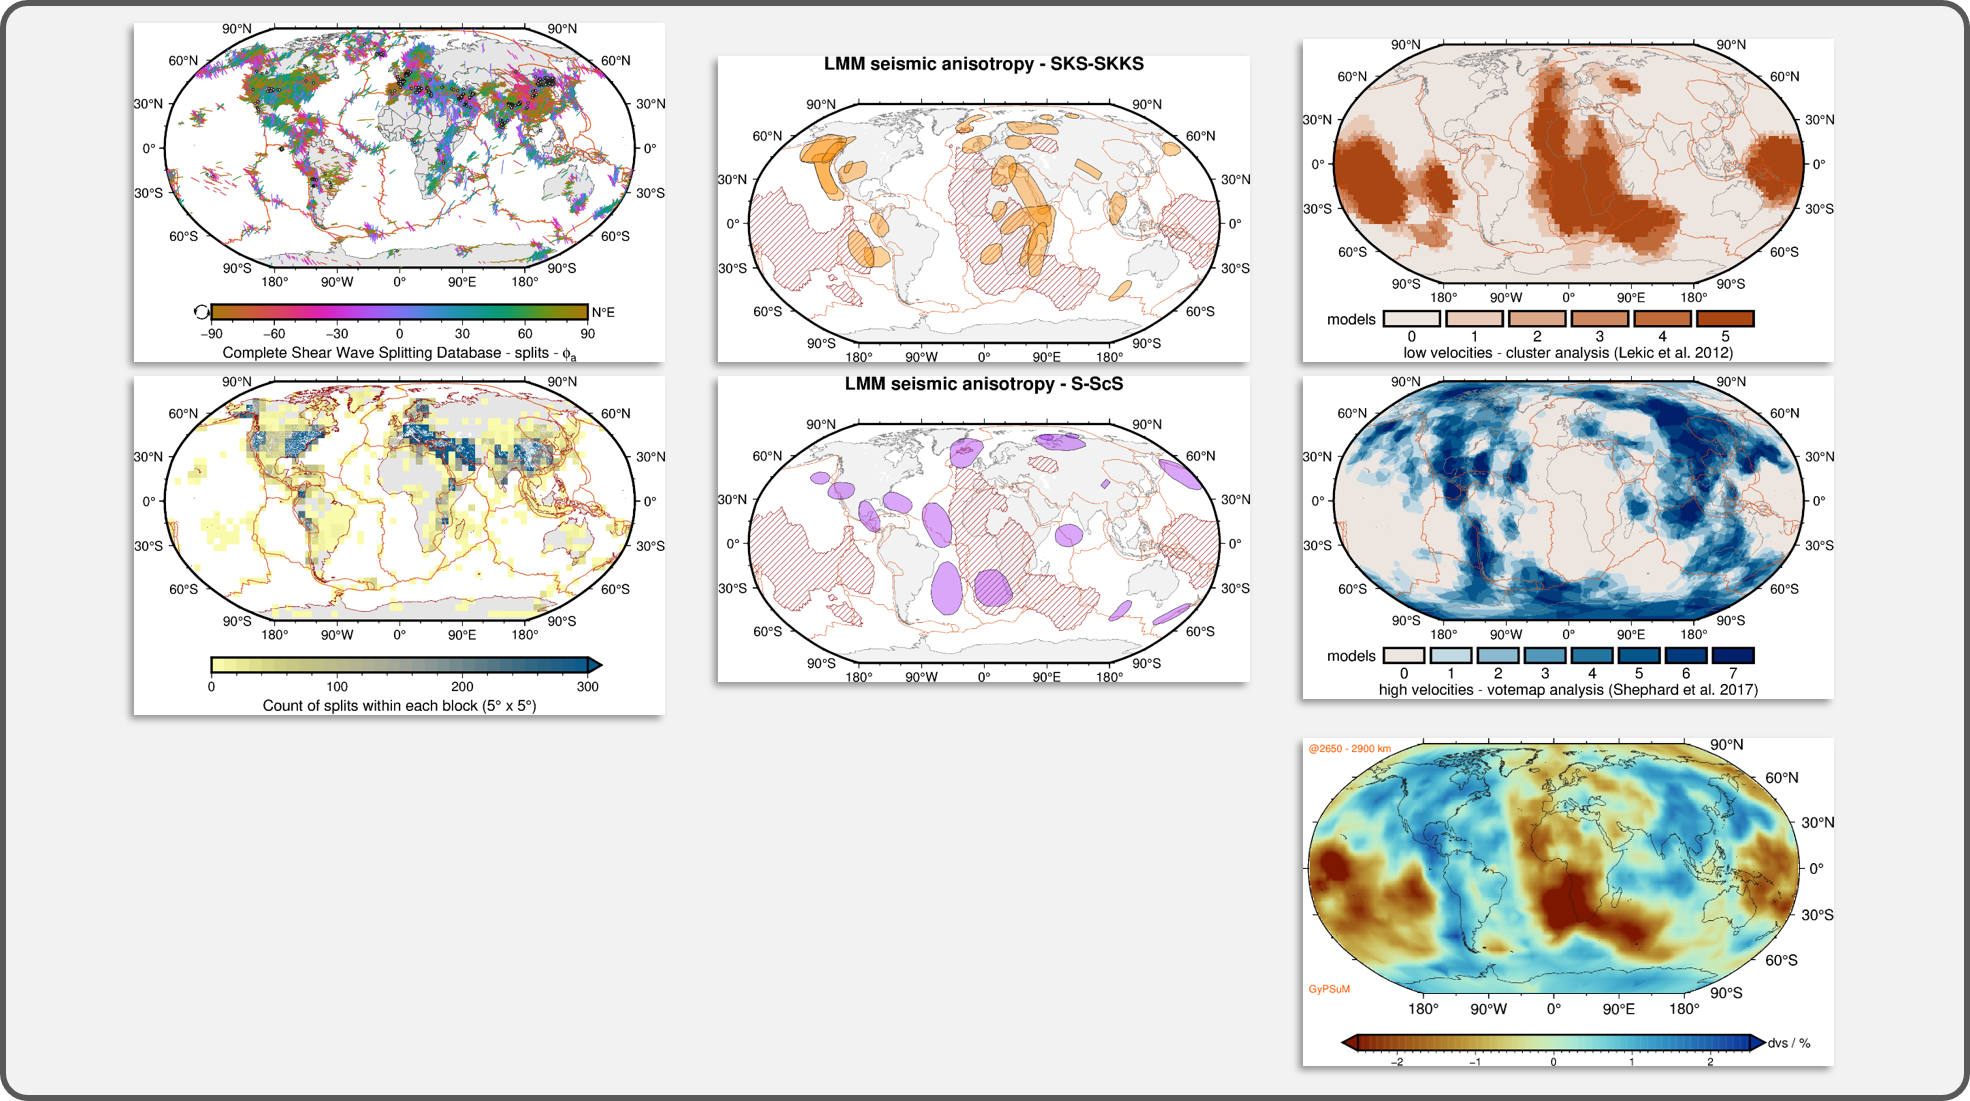
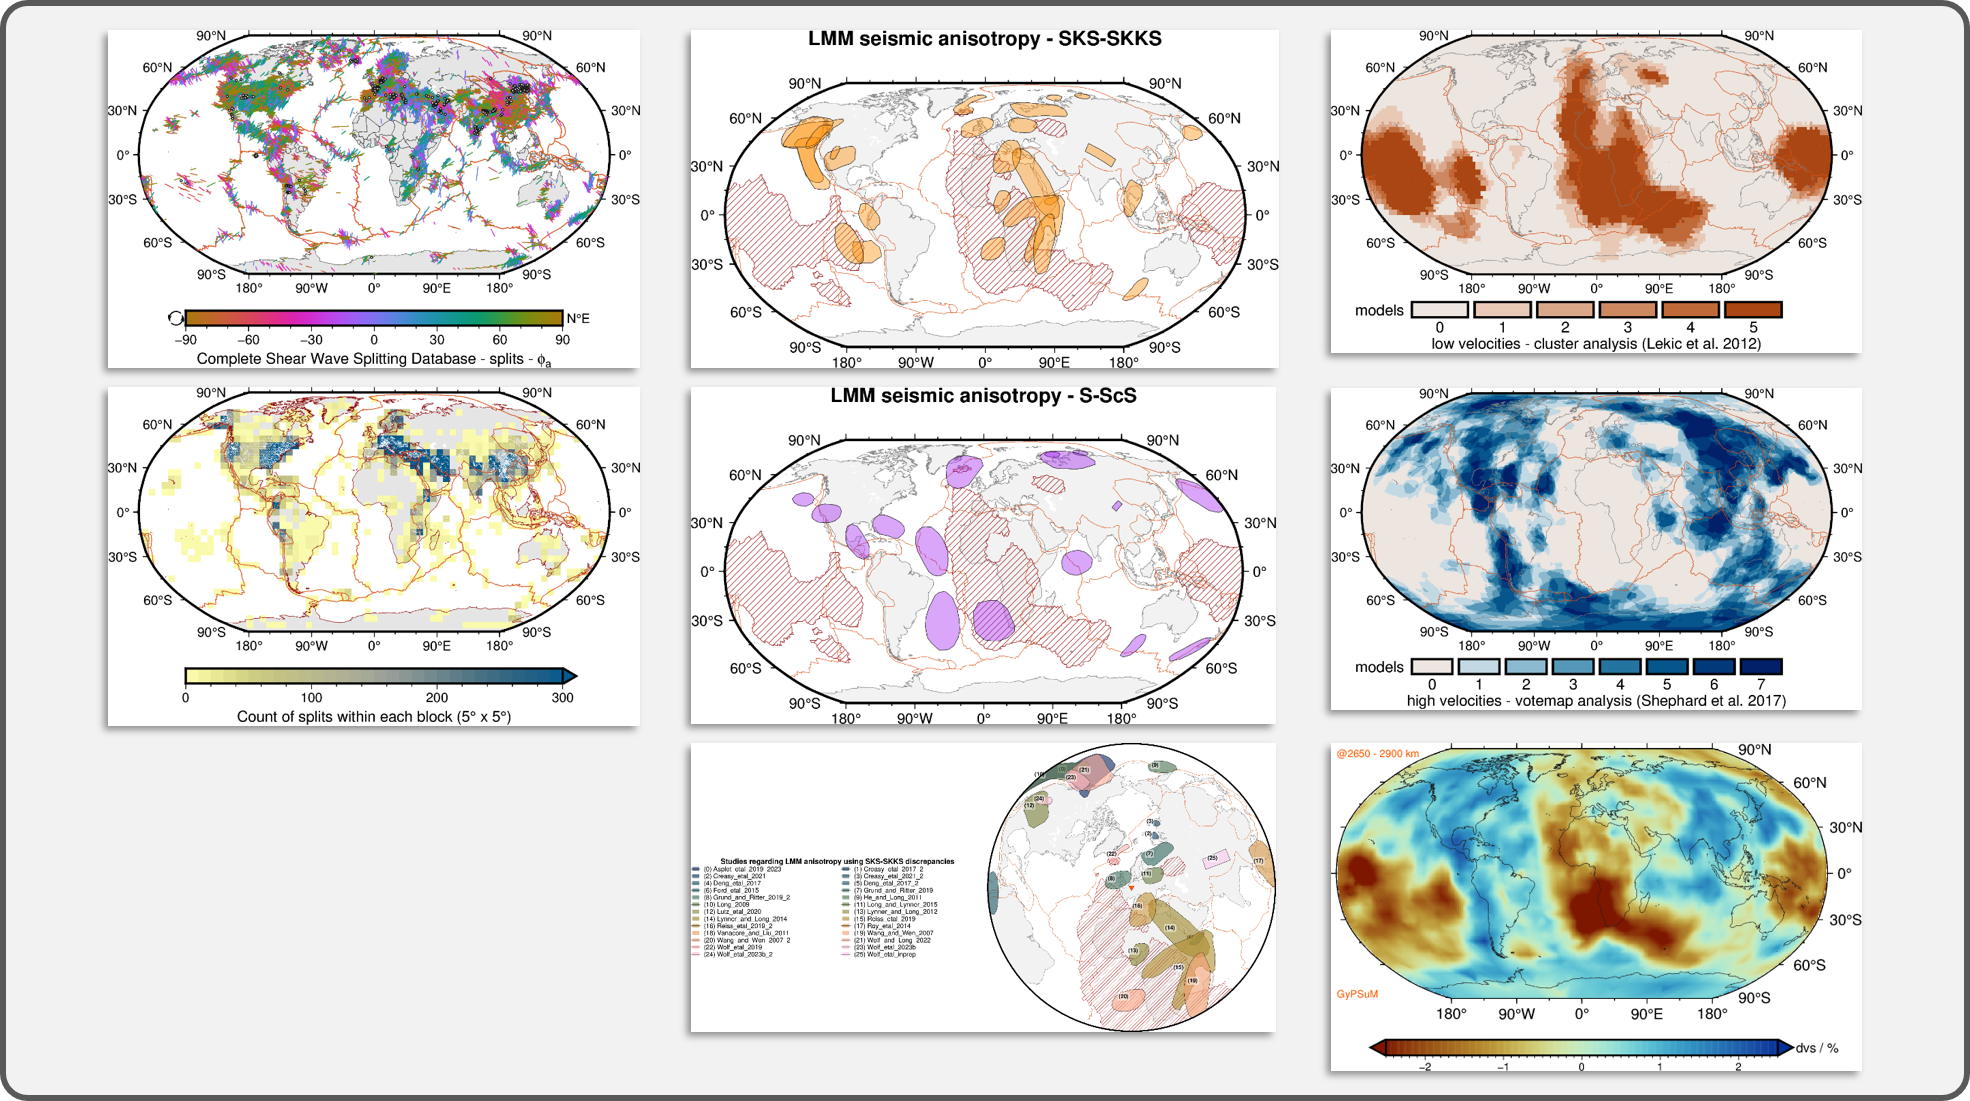
006_tomographies_databases: Add color-coding and numeric labels with legend (#83)

diff --git a/006_tomographies_databases/02_db_deepaniso/map_db_deepaniso.py b/006_tomographies_databases/02_db_deepaniso/map_db_deepaniso.py
@@ -1,19 +1,21 @@
 # #############################################################################
 # Deep anisotropy database
 #
-# Wolf, J., Long, M. D., Li, M., & Garnero, E. (2023). Global compilation of
-# deep mantle anisotropy observations and possible correlation with low velocity
-# provinces. Geochemistry, Geophysics, Geosystems, 24, e2023GC011070.
-# https://doi.org/10.1029/2023GC011070
+#   Wolf, J., Long, M. D., Li, M., & Garnero, E. (2023). Global compilation of
+#   deep mantle anisotropy observations and possible correlation with low velocity
+#   provinces. Geochemistry, Geophysics, Geosystems, 24, e2023GC011070.
+#   https://doi.org/10.1029/2023GC011070
 #
-# Data are available at https://github.com/wolfjonathan/Deep_Mantle_Anisotropy_Database
+#   Data are available at
+#   https://github.com/wolfjonathan/Deep_Mantle_Anisotropy_Database
 # -----------------------------------------------------------------------------
 # History
 # - Created: 2024/04/29
+# - Updated: 2025/07/22 - Add color-coding and numeric labels with legend
 # -----------------------------------------------------------------------------
 # Versions
-# - PyGMT v0.11.0 / v0.12.0 -> https://www.pygmt.org/
-# - GMT 6.4.0 / 6.5.0 -> https://www.generic-mapping-tools.org/
+# - PyGMT v0.16.0 -> https://www.pygmt.org/v0.16.0/ | https://www.pygmt.org/
+# - GMT 6.5.0 -> https://www.generic-mapping-tools.org/
 # -----------------------------------------------------------------------------
 # Contact
 # - Author: Yvonne Fröhlich
@@ -24,7 +26,24 @@
 
 import os
 
+import numpy as np
+import pandas as pd
 import pygmt as gmt
+
+
+# %%
+# -----------------------------------------------------------------------------
+# Adjust for your needs
+# -----------------------------------------------------------------------------
+status_projection = "ROB"  # "ROB", "EPI"
+status_color = "CMAP"  # "MONO", "CMAP"
+status_labels = "YES"  # "NO", "YES"
+status_legend = "BOTTOM"  # "NO", "RIGHT", "LEFT", "BOTTOM
+status_title = "NO"  # "NO", "YES"
+
+epi_lon = 7  # degrees East
+epi_lat = 50  # degrees North
+epi_max = 90  # degrees
 
 
 # %%
@@ -39,9 +58,16 @@ file_pb = "plate_boundaries_Bird_2003.txt"
 # Colors
 color_pb = "216.750/82.875/24.990"  # plate boundaries after Bird 2003
 color_sl = "gray50"  # shorelines (used data built-in in PyGMT / GMT)
+color_hl = "255/90/0"  # highlight
 color_land = "gray95"
 color_llpv = "brown"
 pattern_llpv = "p8+b+f"
+
+# Projection
+map_size = 11  # in centimeters
+match status_projection:
+    case "ROB": projection = f"N{map_size}c"
+    case "EPI": projection = f"E{epi_lon}/{epi_lat}/{epi_max}/{map_size}c"
 
 
 # %%
@@ -53,30 +79,28 @@ folders_analysis = os.listdir(f"{path_in}/01_aniso/")
 for analysis in folders_analysis:
     files_areas = os.listdir(f"{path_in}/01_aniso/{analysis}")
 
-    color_aniso = "tan"
-    if analysis == "SKS-SKKS":
-        color_aniso = "darkorange"
-    elif analysis == "S-ScS":
-        color_aniso = "purple"
+    match analysis:
+        case "SKS-SKKS": color_aniso = "darkorange"
+        case "S-ScS": color_aniso = "purple"
+        case _: color_aniso = "tan"
+
+    match status_title:
+        case "YES": frame_title = f"+tLMM seismic anisotropy - {analysis}"
+        case "NO": frame_title =  0
 
 # -----------------------------------------------------------------------------
     fig = gmt.Figure()
     gmt.config(FONT_TITLE="12p", FONT_LABEL="10p")
 
-    fig.coast(
-        region="d",
-        projection="N11c",
-        land=color_land,
-        shorelines=f"1/0.05p,{color_sl}",
-        frame=f"+tLMM seismic anisotropy - {analysis}",
-    )
+    fig.basemap(region="d", projection=projection, frame=frame_title)
+    fig.coast(land=color_land, shorelines=f"1/0.05p,{color_sl}")
 
 # -----------------------------------------------------------------------------
     # Plate boundaries
     fig.plot(data=f"{path_in}/{file_pb}", pen=f"0.1p,{color_pb}")
 
 # -----------------------------------------------------------------------------
-    # LLPV
+    # LLVP
     for i_model in range(2, 9, 1):
         fig.plot(
             data=f"{path_in}/02_llvp/3model_2016_{i_model}.txt",
@@ -86,24 +110,74 @@ for analysis in folders_analysis:
         )
 
 # -----------------------------------------------------------------------------
-    # LMM Anisotropy
-    for area in files_areas:
-        fig.plot(
-            data=f"{path_in}/01_aniso/{analysis}/{area}",
-            pen="0.1p,gray10",
-            fill=f"{color_aniso}@60",
-            close=True,
-        )
+    # Lowermost mantle (LMM) anisotropy
+    gmt.makecpt(cmap="batlow", series=[0, len(files_areas), 1], transparency=40)
+
+    for i_area, area in enumerate(files_areas):
+        data_use = f"{path_in}/01_aniso/{analysis}/{area}"
+        data_use_df = pd.read_csv(data_use, delimiter=",", names=["lon", "lat", "value"])
+
+        # Use arithmetic mean as approximation for centers of the areas
+        mean_lon = np.mean(data_use_df["lon"])
+        mean_lat = np.mean(data_use_df["lat"])
+
+        # Set up text for legend entries
+        if i_area == 0:  # first legend entry with title for legend
+            ana_leg_add = ""
+            if analysis in ["SKS-SKKS", "S-ScS"]: ana_leg_add = " discrepancies"
+            cb_columns = f"+N2+HStudies regarding LMM anisotropy using {analysis}" + \
+                         f"{ana_leg_add}+f8p"
+        else:
+            cb_columns = ""
+
+        # Plot areas in color
+        args_col = {
+            "data": data_use,
+            "pen": "0.1p,gray10",
+            "close": True,
+            "label": f"({i_area}) {area}{cb_columns}",
+        }
+        match status_color:
+            case "MONO":
+                fig.plot(fill=f"{color_aniso}@60", **args_col)
+            case "CMAP":
+                fig.plot(fill="+z", zvalue=i_area, cmap=True, **args_col)
+
+        # Add numbers as labels for each area
+        if status_labels == "YES":
+            fig.text(
+                x=mean_lon,
+                y=mean_lat,
+                text=f"({i_area})",
+                offset="-0.25c/0.1c",
+                font="6p,Helvetica-Bold,black",
+                fill="white@50",
+                clearance="0.05c/0.05c+tO",
+            )
+
+    # Add legend with studies related to the numbers
+    if status_legend != "NO":
+        match status_legend:
+            case "LEFT": legend_pos = "JLM+jRM+o0c/1c+w11.5c"
+            case "RIGHT": legend_pos = "JRM+jLM+o1c/1c+w11.5c"
+            case "BOTTOM": legend_pos = "JBC+jTC+o0c/0.7c+w11.5c"
+        with gmt.config(FONT="7p"):
+            fig.legend(position=legend_pos)
+
+    # Mark center of epidistance plot as inverse triangle for theoretical recording station
+    if status_projection == "EPI":
+        fig.plot(x=epi_lon, y=epi_lat, style="i0.25c", fill=color_hl, pen="0.1p,gray30")
 
 # -----------------------------------------------------------------------------
-    # Map frame
+    # Plot map frame on top
     fig.basemap(frame=["WSnE", "xa90f30", "ya30f15"])
 
 # -----------------------------------------------------------------------------
     fig.show()
 
-    fig_name = f"{path_out}/deepaniso_{analysis}"
+    fig_name = f"deepaniso_{analysis}_projection{status_projection}_color{status_color}" + \
+               f"_legend{status_legend}_labels{status_labels}_title{status_title}"
     # for ext in ["png"]:  # , "pdf", "eps"]:
-    #     fig.savefig(fname=f"{fig_name}.{ext}")
+    #     fig.savefig(fname=f"{path_out}/{fig_name}.{ext}")
 
     print(fig_name)

diff --git a/README.md b/README.md
@@ -17,7 +17,7 @@ _Please note_: Scripts or notebooks are available up on acceptance of the relate
 | **[003_taup](https://github.com/yvonnefroehlich/gmt-pygmt-plotting/tree/main/003_taup)** | <img src="https://github.com/yvonnefroehlich/gmt-pygmt-plotting/raw/main/_images/github_maps_readme_003taup.png" width="250"> | Travel paths and travel time curves of seismological phases | [**_Fröhlich et al. (2024)_**](https://doi.org/10.1093/gji/ggae245) |
 | **[004_earthquakes_eruptions](https://github.com/yvonnefroehlich/gmt-pygmt-plotting/tree/main/004_earthquakes_eruptions)** | <img src="https://github.com/yvonnefroehlich/gmt-pygmt-plotting/raw/main/_images/github_maps_readme_004events.png" width="250"> | Maps of selected earthquakes and eruptions between 2021 and present | - |
 | **[005_global_seismicity](https://github.com/yvonnefroehlich/gmt-pygmt-plotting/tree/main/005_global_seismicity)** | <img src="https://github.com/yvonnefroehlich/gmt-pygmt-plotting/raw/main/_images/github_maps_readme_005seismicity.png" width="250"> | Analysis regarding global seismicity (maps, histograms, etc.) | - |
-| **[006_tomographies_databases](https://github.com/yvonnefroehlich/gmt-pygmt-plotting/tree/main/006_tomographies_databases)** | <img src="https://github.com/yvonnefroehlich/gmt-pygmt-plotting/raw/main/_images/github_maps_readme_006tomos.png" width="250"> | `shear wave splitting`, `deep anisotropy`, `votemap analysis`, `cluster analysis`, `GyPSuM` | [DGG DeepDyn poster](https://doi.org/10.5281/zenodo.10927349), [SEDI DeepDyn poster](https://doi.org/10.5281/zenodo.12658821) |
+| **[006_tomographies_databases](https://github.com/yvonnefroehlich/gmt-pygmt-plotting/tree/main/006_tomographies_databases)** | <img src="https://github.com/yvonnefroehlich/gmt-pygmt-plotting/raw/main/_images/github_maps_readme_006tomos.png" width="250"> | Shear wave splitting database, deep anisotropy database, votemap analysis, cluster analysis, tomography GyPSuM | [DGG DeepDyn poster](https://doi.org/10.5281/zenodo.10927349), [SEDI DeepDyn poster](https://doi.org/10.5281/zenodo.12658821) |
 | **[007_dissertation_F_2025](https://github.com/yvonnefroehlich/gmt-pygmt-plotting/tree/main/007_dissertation_F_2025)** | <img src="https://github.com/yvonnefroehlich/gmt-pygmt-plotting/raw/main/_images/github_maps_readme_007dissertation.png" width="250"> | _Up coming_ |  |
 | **[008_urg_vs_norsa](https://github.com/yvonnefroehlich/gmt-pygmt-plotting/tree/main/008_urg_vs_norsa)** | <img src="https://github.com/yvonnefroehlich/gmt-pygmt-plotting/raw/main/_images/github_maps_readme_008norsa.png" width="250"> | _Up coming_ |  |
 | **[009_deepdyn](https://github.com/yvonnefroehlich/gmt-pygmt-plotting/tree/main/009_deepdyn)** | <img src="https://github.com/yvonnefroehlich/gmt-pygmt-plotting/raw/main/_images/github_maps_readme_009deepdyn.png" width="250"> | Maps related to the DeepDyn project | [DGG DeepDyn poster](https://doi.org/10.5281/zenodo.10927349), [SEDI DeepDyn poster](https://doi.org/10.5281/zenodo.12658821) |

diff --git a/006_tomographies_databases/README.md b/006_tomographies_databases/README.md
@@ -2,7 +2,7 @@
 
 ## Content
 
-_Recommended versions_: PyGMT v0.11.0-v0.12.0, GMT 6.4.0-6.5.0
+_Recommended versions_: PyGMT v0.11.0-v0.16.0, GMT 6.4.0-6.5.0
 
 - **[01_db_sws](https://github.com/yvonnefroehlich/gmt-pygmt-plotting/tree/main/006_tomographies_databases/01_db_sws)**: `Shear wave splitting database` by [Wüstefeld et al. 2009](https://doi.org/10.1016/j.pepi.2009.05.006)
 - **[02_db_deepaniso](https://github.com/yvonnefroehlich/gmt-pygmt-plotting/tree/main/006_tomographies_databases/02_db_deepaniso)**: `Deep Mantel Anisotropy database` by [Wolf et al. 2023](https://doi.org/10.1029/2023GC011070) | _See also_: [Deep_Mantle_Anisotropy_Database](https://github.com/wolfjonathan/Deep_Mantle_Anisotropy_Database) by [Jonathan Wolf](https://github.com/wolfjonathan)
